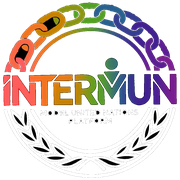
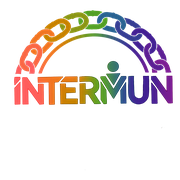
Fix session floor crash and refresh light-mode branding assets.
Move approved-amendments state before its loader effect to fix the TDZ error on chair session pages, and update the light wordmark plus favicons from the latest source files.

diff --git a/app/(dashboard)/chair/session/SessionControlClient.tsx b/app/(dashboard)/chair/session/SessionControlClient.tsx
@@ -369,23 +369,7 @@ export function SessionControlClient({
     canonicalConferenceId,
     rosterConferenceIdList
   );
-  useEffect(() => {
-    let cancelled = false;
-    void supabase
-      .from("amendments")
-      .select(
-        "id, resolution_id, amendment_type, target_clause_number, original_clause, proposed_clause, classification, delegate_country, submitter_allocation_id"
-      )
-      .eq("conference_id", floorConferenceId)
-      .eq("status", "approved")
-      .order("created_at", { ascending: true })
-      .then(({ data }) => {
-        if (!cancelled) setApprovedAmendments((data ?? []) as ApprovedAmendmentRow[]);
-      });
-    return () => {
-      cancelled = true;
-    };
-  }, [supabase, floorConferenceId]);
+  const [approvedAmendments, setApprovedAmendments] = useState<ApprovedAmendmentRow[]>([]);
   const displayConferenceTitle = useMemo(() => {
     const liveTopicRaw =
       debateTopicOptions?.find((topic) => topic.id === floorConferenceId)?.label?.trim() ?? "";
@@ -456,7 +440,6 @@ export function SessionControlClient({
   });
   const [resolutions, setResolutions] = useState<ResolutionRow[]>([]);
   const [resolutionClauses, setResolutionClauses] = useState<ClauseRow[]>([]);
-  const [approvedAmendments, setApprovedAmendments] = useState<ApprovedAmendmentRow[]>([]);
   const [sessionPoints, setSessionPoints] = useState<SessionPointRow[]>([]);
   const [pointDraftCode, setPointDraftCode] = useState<SessionPointCode>("parliamentary_inquiry");
   const [pointDraftDetail, setPointDraftDetail] = useState("");
@@ -480,6 +463,24 @@ export function SessionControlClient({
   const [euSessionPhase, setEuSessionPhase] = useState<EuSessionPhase>("roll_call");
   const [agendaTopicsRemaining, setAgendaTopicsRemaining] = useState<AgendaTopic[]>([]);
   const [agendaTopicsUsedNames, setAgendaTopicsUsedNames] = useState<string[]>([]);
+
+  useEffect(() => {
+    let cancelled = false;
+    void supabase
+      .from("amendments")
+      .select(
+        "id, resolution_id, amendment_type, target_clause_number, original_clause, proposed_clause, classification, delegate_country, submitter_allocation_id"
+      )
+      .eq("conference_id", floorConferenceId)
+      .eq("status", "approved")
+      .order("created_at", { ascending: true })
+      .then(({ data }) => {
+        if (!cancelled) setApprovedAmendments((data ?? []) as ApprovedAmendmentRow[]);
+      });
+    return () => {
+      cancelled = true;
+    };
+  }, [supabase, floorConferenceId]);
 
   const { timer: liveTimerRow, remaining: liveRemaining } = useConferenceTimer(
     floorConferenceId,
@@ -954,7 +955,7 @@ export function SessionControlClient({
       { data: allocs },
       { data: r },
       { data: ann },
-      { data: t },
+      { data: timerRow },
       { data: unclosedRows },
       { data: setAgendaClosedRows },
       { data: recentClosedRows },
@@ -1248,20 +1249,20 @@ export function SessionControlClient({
       setMotionAudit([]);
     }
 
-    if (t) {
-      const tl = t.time_left_seconds ?? 0;
-      const tt = t.total_time_seconds ?? 0;
-      const tr = t as {
+    if (timerRow) {
+      const tl = timerRow.time_left_seconds ?? 0;
+      const tt = timerRow.total_time_seconds ?? 0;
+      const tr = timerRow as {
         per_speaker_mode?: boolean | null;
         is_running?: boolean | null;
         vote_item_id?: string | null;
         eu_timer_meta?: unknown;
       };
       const vid = tr.vote_item_id ?? null;
-      const floorLabel = (t as { floor_label?: string | null }).floor_label ?? "";
+      const floorLabel = (timerRow as { floor_label?: string | null }).floor_label ?? "";
       setTimer({
-        current: t.current_speaker ?? "",
-        next: t.next_speaker ?? "",
+        current: timerRow.current_speaker ?? "",
+        next: timerRow.next_speaker ?? "",
         leftM: String(Math.floor(tl / 60)),
         leftS: String(tl % 60),
         totalM: String(Math.floor(tt / 60)),

diff --git a/components/chair/ChairScheduledSessionsPanel.tsx b/components/chair/ChairScheduledSessionsPanel.tsx
@@ -197,7 +197,7 @@ export function ChairScheduledSessionsPanel({
         router.refresh();
       });
     },
-    [conferenceId, router]
+    [conferenceId, router, startTransition]
   );
 
   if (presets.length === 0 && milestones.length === 0) return null;
